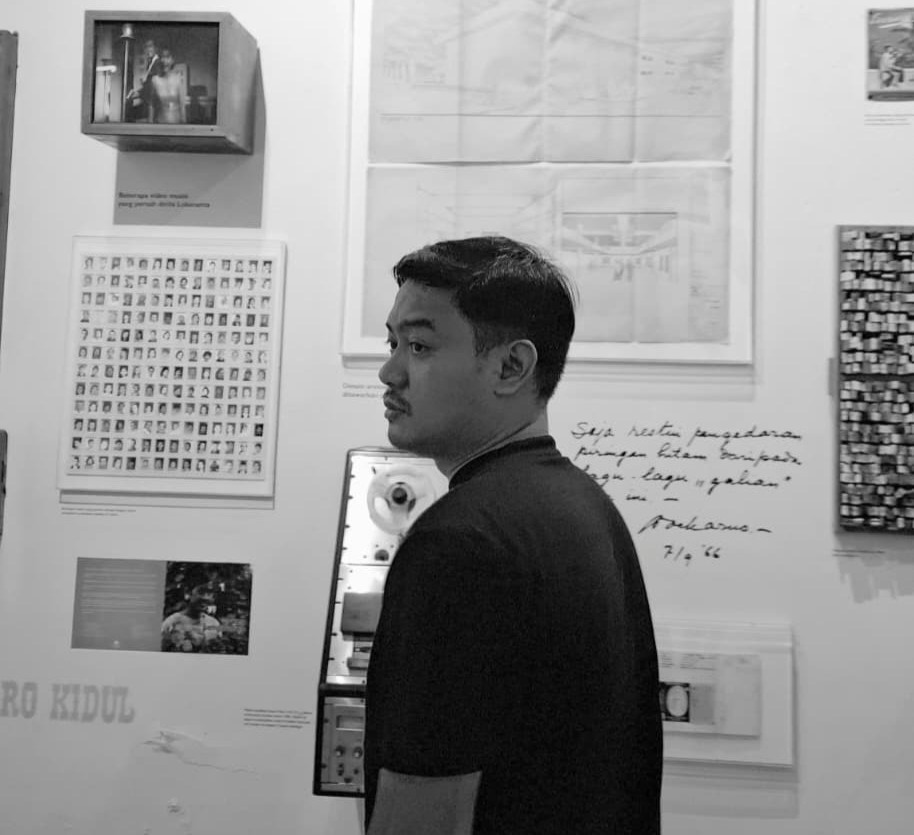
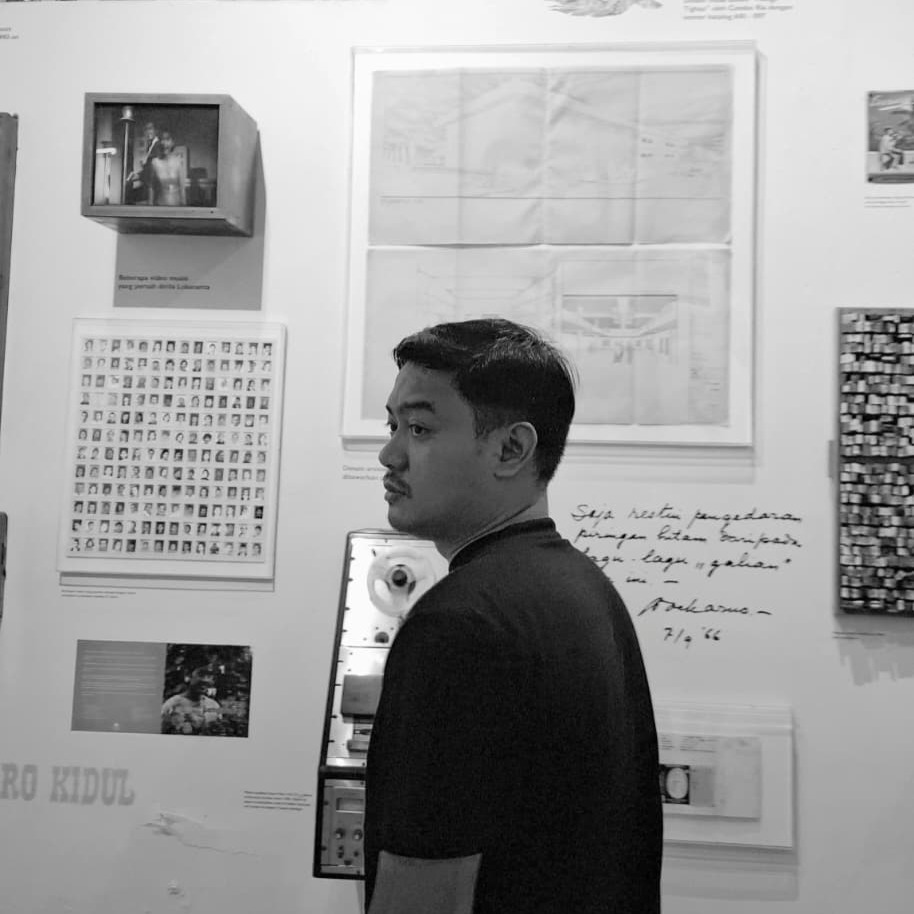
feat: Adding Scroll Up Button and update hero image

diff --git a/app/components/ScrollToTop/ScrollToTop.jsx b/app/components/ScrollToTop/ScrollToTop.jsx
@@ -1,0 +1,51 @@
+'use client';
+
+import React, { useState, useEffect } from 'react';
+import { motion, AnimatePresence } from 'framer-motion';
+import { ChevronUpIcon } from '@heroicons/react/solid';
+
+const ScrollToTop = () => {
+  const [isVisible, setIsVisible] = useState(false);
+
+  useEffect(() => {
+    const toggleVisibility = () => {
+      if (window.scrollY > 300) {
+        setIsVisible(true);
+      } else {
+        setIsVisible(false);
+      }
+    };
+
+    window.addEventListener('scroll', toggleVisibility);
+    return () => window.removeEventListener('scroll', toggleVisibility);
+  }, []);
+
+  const scrollToTop = () => {
+    window.scrollTo({
+      top: 0,
+      behavior: 'smooth',
+    });
+  };
+
+  return (
+    <AnimatePresence>
+      {isVisible && (
+        <motion.button
+          initial={{ opacity: 0, scale: 0.5, y: 20 }}
+          animate={{ opacity: 1, scale: 1, y: 0 }}
+          exit={{ opacity: 0, scale: 0.5, y: 20 }}
+          whileHover={{ scale: 1.1 }}
+          whileTap={{ scale: 0.9 }}
+          transition={{ duration: 0.2 }}
+          onClick={scrollToTop}
+          aria-label='Scroll to top'
+          className='fixed bottom-6 right-6 md:bottom-8 md:right-8 z-50 p-3.5 rounded-full glass-effect border border-white/20 bg-gradient-to-br from-blue-600/80 via-indigo-600/80 to-purple-600/80 hover:from-blue-500 hover:via-indigo-500 hover:to-purple-500 text-white shadow-lg shadow-indigo-500/30 hover:shadow-cyan-500/50 backdrop-blur-md transition-all duration-300 group focus:outline-none focus:ring-2 focus:ring-purple-400 focus:ring-offset-2 focus:ring-offset-[#121212]'
+        >
+          <ChevronUpIcon className='w-6 h-6 transform group-hover:-translate-y-1 transition-transform duration-300' />
+        </motion.button>
+      )}
+    </AnimatePresence>
+  );
+};
+
+export default ScrollToTop;

diff --git a/app/components/ProjectSection/ProjectCard.jsx b/app/components/ProjectSection/ProjectCard.jsx
@@ -37,15 +37,6 @@ const ProjectCard = ({ title, description, role, previewUrl, image, tech = [] })
               {role}
             </span>
           </div>
-          {/* Hover overlay with preview icon */}
-          <div className='absolute inset-0 bg-black/40 opacity-0 group-hover:opacity-100 transition-opacity duration-500 flex items-center justify-center'>
-            {previewUrl && (
-              <div className='flex items-center gap-2 text-white text-sm font-semibold bg-white/10 backdrop-blur-md px-4 py-2 rounded-full border border-white/20'>
-                <ExternalLinkIcon className='h-4 w-4' />
-                View Live
-              </div>
-            )}
-          </div>
         </div>
       )}
 

diff --git a/app/page.js b/app/page.js
@@ -6,12 +6,13 @@ import Footer from './components/Footer/Footer';
 import Connect from './components/ConnectSection/ConnectSection';
 import Experience from './components/ExperienceSection/Experience';
 import CoreExpertise from './components/CoreExpertise/CoreExpertise';
+import ScrollToTop from './components/ScrollToTop/ScrollToTop';
 import { ArrowDownIcon } from '@heroicons/react/solid';
 import Link from 'next/link';
 
 export default function Home() {
   return (
-    <main className='flex min-h-screen flex-col bg-[#121212] overflow-x-hidden'>
+    <main className='flex min-h-screen flex-col bg-[#121212] overflow-x-hidden relative'>
       <Navbar />
 
       {/* Hero Section */}
@@ -60,6 +61,7 @@ export default function Home() {
       </section>
 
       <Footer />
+      <ScrollToTop />
     </main>
   );
 }